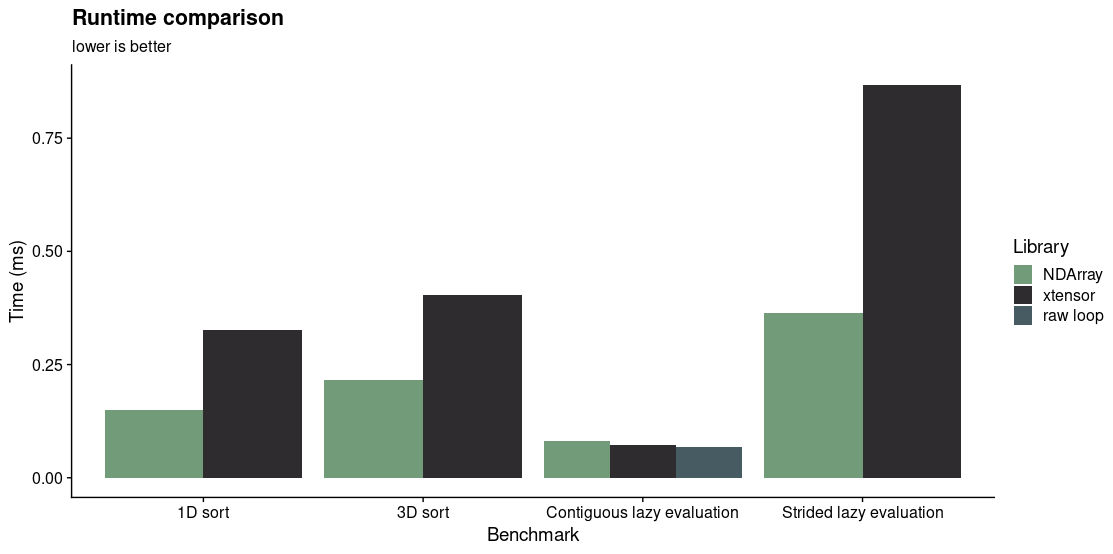
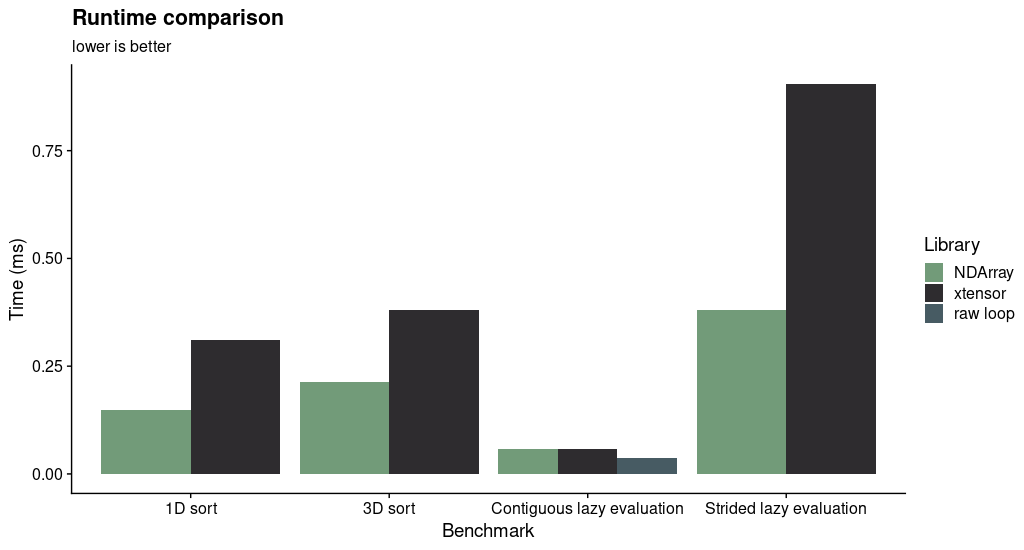
updated benchmark

diff --git a/README.md b/README.md
@@ -6,7 +6,7 @@ random access iterators.
 # Benchmark
 The performance of the library  is evaluated against 
 [xtensor](https://github.com/xtensor-stack/xtensor), a well established library with similar 
-features. An intel i7-7700k CPU, the GCC 10.2.0 compiler, and `-O3 -DNDEBUG` flags were used. 
+features. An intel i7-7700k CPU, the GCC 10.2.0 compiler, and `-O3 -DNDEBUG -march=native` flags were used. 
 
 ![benchmark](figures/benchmark.png)
 
@@ -15,8 +15,8 @@ The "Contiguous lazy evaluation" involves computing and storing a compound opera
 array, while the "Strided lazy evaluation" test performs the computation over a 3D view of a 5D array.
 The computation over a contiguous range is also compared against a standard c++ raw loop.
 
-xtensor marginally outperforms the NDArray library over a continuous range, as it explicitly  supports 
-vectorization. But when iterators over array views are used, NDArray outperforms xtensor 
+The performance of the two library is similar when evaluating functions over entire arrays stored
+contiguously in memory, but when iterators over array views are used, NDArray outperforms xtensor 
 by a wide margin.
 
 # Requirements
